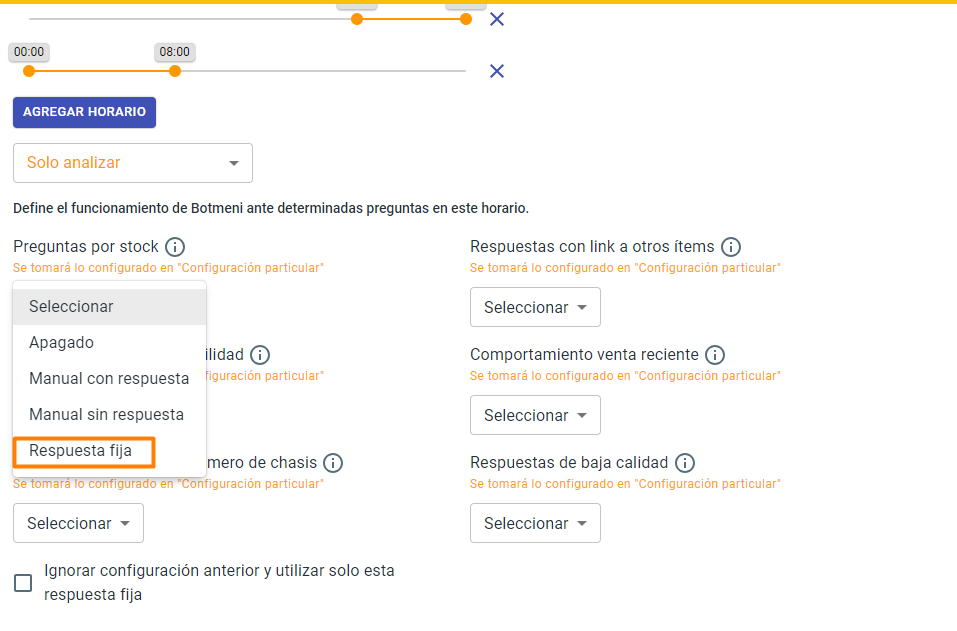
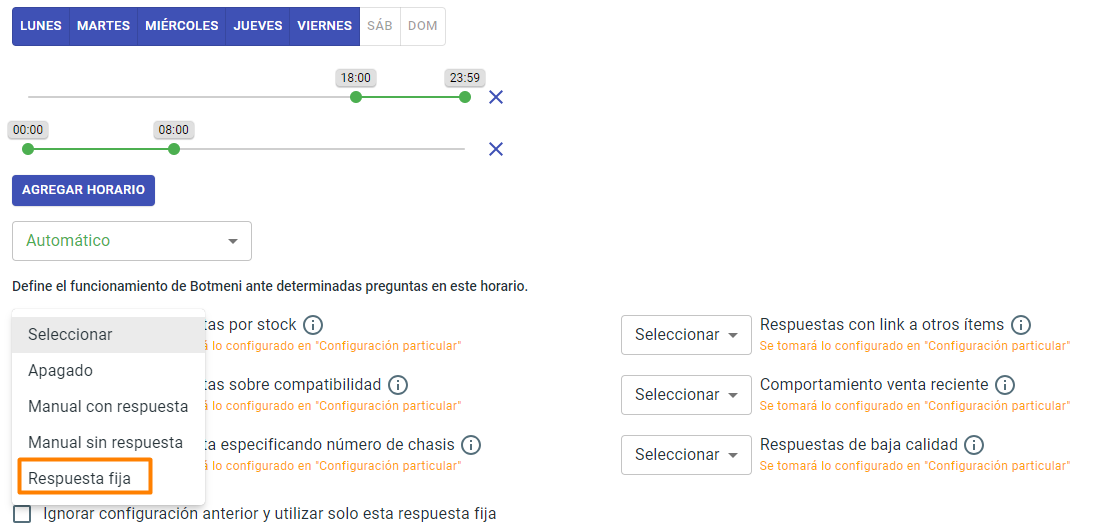
4 10 10

diff --git a/content/docs/Personaliza_tu_cuenta_de_botmeni/Configuración_comportamiento_respuesta/Dias_festivos.md b/content/docs/Personaliza_tu_cuenta_de_botmeni/Configuración_comportamiento_respuesta/Dias_festivos.md
@@ -44,11 +44,11 @@ Para establecer el comportamiento de respuesta para fechas específicas:
 14. Si deseas que las preguntas/respuestas con características particulares no tomen la configuración establecida en la sección Configuraciones Particulares, sino que se comporten según el comportamiento general seleccionado para las fechas, selecciona el modo de comportamiento APAGADO. Se muestra un ejemplo a continuación.
 {{< figure width="700px" height="500px" src="/images/general/nolaborables19.png" >}}
 
-### Establecer respuesta automática fija para fechas específicsa
+### Establecer respuesta automática fija para fechas específicas
 
 Dentro de nuestra plataforma es posible establecer una Respuesta automática fija que se enviará sólo para las fechas que definas.<br></br>
 La misma puede establecerse para todas las preguntas que ingresen en una franja horaria, o sólo para un tipo particular de pregunta o respuesta.<br></br>
-Para utilizar la Respuesta Automática fija en una fecha específica debes en primer lugar configurar el comportamiento general y las fechas, siguiendo los pasos 1 a 9 detallados en la sección anterior. A cotinuación:
+Para utilizar la Respuesta Automática fija en una fecha específica debes en primer lugar configurar el comportamiento general en Automático y las fechas, siguiendo los pasos 1 a 9 detallados en la sección anterior. A cotinuación:
 1. Selecciona el check box: Ignorar configuración anterior y utilizar solo esta respuesta fija.
 {{< figure width="700px" height="500px" src="/images/general/nolaborables12.png" >}}
 2. En el campo Respuesta fija ingresa la respuesta que deseas que se envíe.
@@ -60,7 +60,7 @@ Para utilizar la Respuesta Automática fija en una fecha específica debes en pr
 ### Establecer respuesta automática fija para fechas específicas según características particulares de la pregunta o respuesta
 
 Si lo que deseas es establecer una respuesta automática fija, para determinadas fechas, y sólo para preguntas o respuestas con una característica en particular:
-1. configura el comportamiento general y las fechas, siguiendo los pasos 1 a 9 detallados en la sección [Establecer Comportamiento para fechas específicas](../Configuración_comportamiento_respuesta/Dias_festivos.md).
+1. configura el comportamiento general Automático y las fechas, siguiendo los pasos 1 a 9 detallados en la sección [Establecer Comportamiento para fechas específicas](../Configuración_comportamiento_respuesta/Dias_festivos.md).
 {{< figure width="700px" height="500px" src="/images/general/nolaborables15.png" >}}
 2. Despliega las opciones de comportamiento presionando sobre el ícono triángulo invertido, en el tipo de pregunta o respuesta que desesas configurar.
 {{< figure width="700px" height="500px" src="/images/general/nolaborables16.png" >}}
@@ -69,6 +69,6 @@ Si lo que deseas es establecer una respuesta automática fija, para determinadas
 5. Ingresa el mensaje que deseas se envíe como respuesta automática.
 {{< figure width="700px" height="500px" src="/images/general/nolaborables18.png" >}}
 
-Así, siguiendo los pasos recién detallados, puedes configurar para fechas específicas una respuesta automática fija para preguntas relacionadas con stock, compatibilidad, que especifican número de chasis o que corresponden a una venta reciente. También lo puedes establecer para respuestas que contienen link a otros ítems, o que fueron calificadas de baja calidad por nuestra plataforma al momento de evaluar la calidad de la respuesta generada.
+Así, siguiendo los pasos recién detallados, puedes configurar para fechas específicas una respuesta automática fija para preguntas relacionadas con stock, compatibilidad, que especifican número de chasis o que corresponden a una venta reciente. También lo puedes establecer para respuestas que contienen link a otros ítems, o que fueron calificadas de baja calidad por nuestra plataforma al momento de evaluar la calidad de la respuesta generada.<br></br>
 Esta configuración tendrá prioridad sobre el modo de respuesta general establecido para dichas fechas, y también sobre las configuraciones definidas en las secciones Horarios y Configuraciones Particulares, y por sobre lo establecido para producto, categoría y vertical de negocio.
 

diff --git a/content/docs/Personaliza_tu_cuenta_de_botmeni/Configuración_comportamiento_respuesta/Comportamiento_baja_calidad.md b/content/docs/Personaliza_tu_cuenta_de_botmeni/Configuración_comportamiento_respuesta/Comportamiento_baja_calidad.md
@@ -1,0 +1,31 @@
+---
+weight: 598
+title: "Comportamiento de respuesta para respuestas con baja calidad"
+description: "Comportamiento de respuesta para respuestas con baja calidad"
+icon: "category"
+color: "primary"
+date: "2024-04-08T23:13:49-05:00"
+lastmod: "2024-04-08T23:13:49-05:00"
+draft: false
+toc: true
+---
+
+Botmeni te brinda la posibilidad de personalizar el comportamiento de respuesta para respuestas que la plataforma evalúa que son de baja calidad, y por lo tanto no envía de modo automático a Mercado Libre. 
+Existen dos opciones de comportamiento que puedes seleccionar:
+- Revisión manual: la pregunta queda pendiente para que tu la revises y luego la envíes (si la configuración de producto, categoría o vertical que le corresponde está definida en modo Automático o Solo analizar)
+- Respuesta Fija: si al pregunta generada es calificada como de baja calidad, en lugar de enviar la respuesta generada se enviará una repsuesta Fija que tu definas (si la configuración de producto, categoría o vertical que le corresponde está definida en modo Automático o Solo analizar)
+<br></br>
+Para configurar el comportamiento para respuestas que contienen link a otros productos:
+1. Inicia sesión con un usuario con tipo de rol ADMINISTRADOR, en nuestra página de login <https://prod.botmeni.com/login>.
+2. Haz clic en CONFIGURACIÓN.
+{{< figure width="140px" height="100px" src="/images/general/configuracion.png" >}}
+3. Posiciónate en la sección Configuraciones Particulares
+{{< figure width="840px" height="600px" src="/images/general/particulares.png" >}}
+4. Despliega el listado de comportamientos presionando el ícono triángulo invertido. 
+{{< figure width="840px" height="600px" src="/images/general/particulares8.png" >}}
+5. Selecciona el comportamiento deseado.
+{{< figure width="840px" height="600px" src="/images/general/particulares9.png" >}}	
+<br></br>
+Independientemente de la selección recién mencionada, las preguntas se consideran procesadas cuando la configuración por producto, categoría, vertical u horario que corresponda esté definida en modo Automático o Solo responder. Esto se debe a que implementar el comportamiento definido en esta sección requiere de análisis previo para identificar el tipo de pregunta del cual se trata.<br></br>
+Para conocer cómo configurar el comportamiento de respuesta en horarios específicos para respuestas que contienen links a otros productos, dirígete a la sección [Comportamiento según horarios](../Configuración_comportamiento_respuesta/Horarios_solo_analizar.md) disponible en la guía.<br></br>
+Los pasos para definir el comportamiento de respuesta para fechas específicas cuando las respuestas tienen links a otros ítems, están detallados en la sección [Comportamiento según fecha](../Configuración_comportamiento_respuesta/Dias_festivos.md).<br></br>

diff --git a/content/docs/Personaliza_tu_cuenta_de_botmeni/Configuración_comportamiento_respuesta/Horarios_solo_analizar.md b/content/docs/Personaliza_tu_cuenta_de_botmeni/Configuración_comportamiento_respuesta/Horarios_solo_analizar.md
@@ -65,7 +65,7 @@ La misma puede establecerse para todas las preguntas que ingresen en una franja 
 Para utilizar la Respuesta Automática fija por horario debes primero configurar un horario en la sección Horario, siguiendo los pasos 1 a 8 detallados en la sección [Establecer Horario](../../Personaliza_tu_cuenta_de_botmeni/Configuración_comportamiento_respuesta/Horarios_solo_analizar.md)<br></br>
 
 Para establecer la respuesta automática fija, luego de que ya has configurado el horario:
-1. Selecciona el tipo de comportamiento general que deseas para el horario, puede ser Automático o Solo analizar.
+1. Selecciona el tipo de comportamiento Automático
 {{< figure width="700px" height="500px" src="/images/general/horario10.png" >}}
 2. Selecciona el check box: Ignorar configuración anterior y utilizar solo esta respuesta fija.
 {{< figure width="700px" height="500px" src="/images/general/horario12.png" >}}
@@ -81,7 +81,7 @@ Esta configuración tendrá prioridad sobre el modo de respuesta establecido par
 Si lo que deseas es establecer una respuesta automática fija, para un determinado horario, y sólo para preguntas o respuestas con una característica en particular:
 1. Configura el horario en la sección Horario, siguiendo los pasos 1 a 8 detallados en la sección [Establecer Horario](../../Personaliza_tu_cuenta_de_botmeni/Configuración_comportamiento_respuesta/Horarios_solo_analizar.md).
 {{< figure width="700px" height="500px" src="/images/general/horario16.png" >}}
-2. Selecciona el tipo de comportamiento general que deseas para el horario, puede ser Automático o Solo analizar.
+2. Selecciona el tipo de comportamiento Automático.
 {{< figure width="700px" height="500px" src="/images/general/horario17.png" >}}
 3. Despliega las opciones de comportamiento presionando sobre el ícono triángulo invertido, en el tipo de pregunta o respuesta que desesas configurar.
 {{< figure width="700px" height="500px" src="/images/general/horario18.png" >}}
